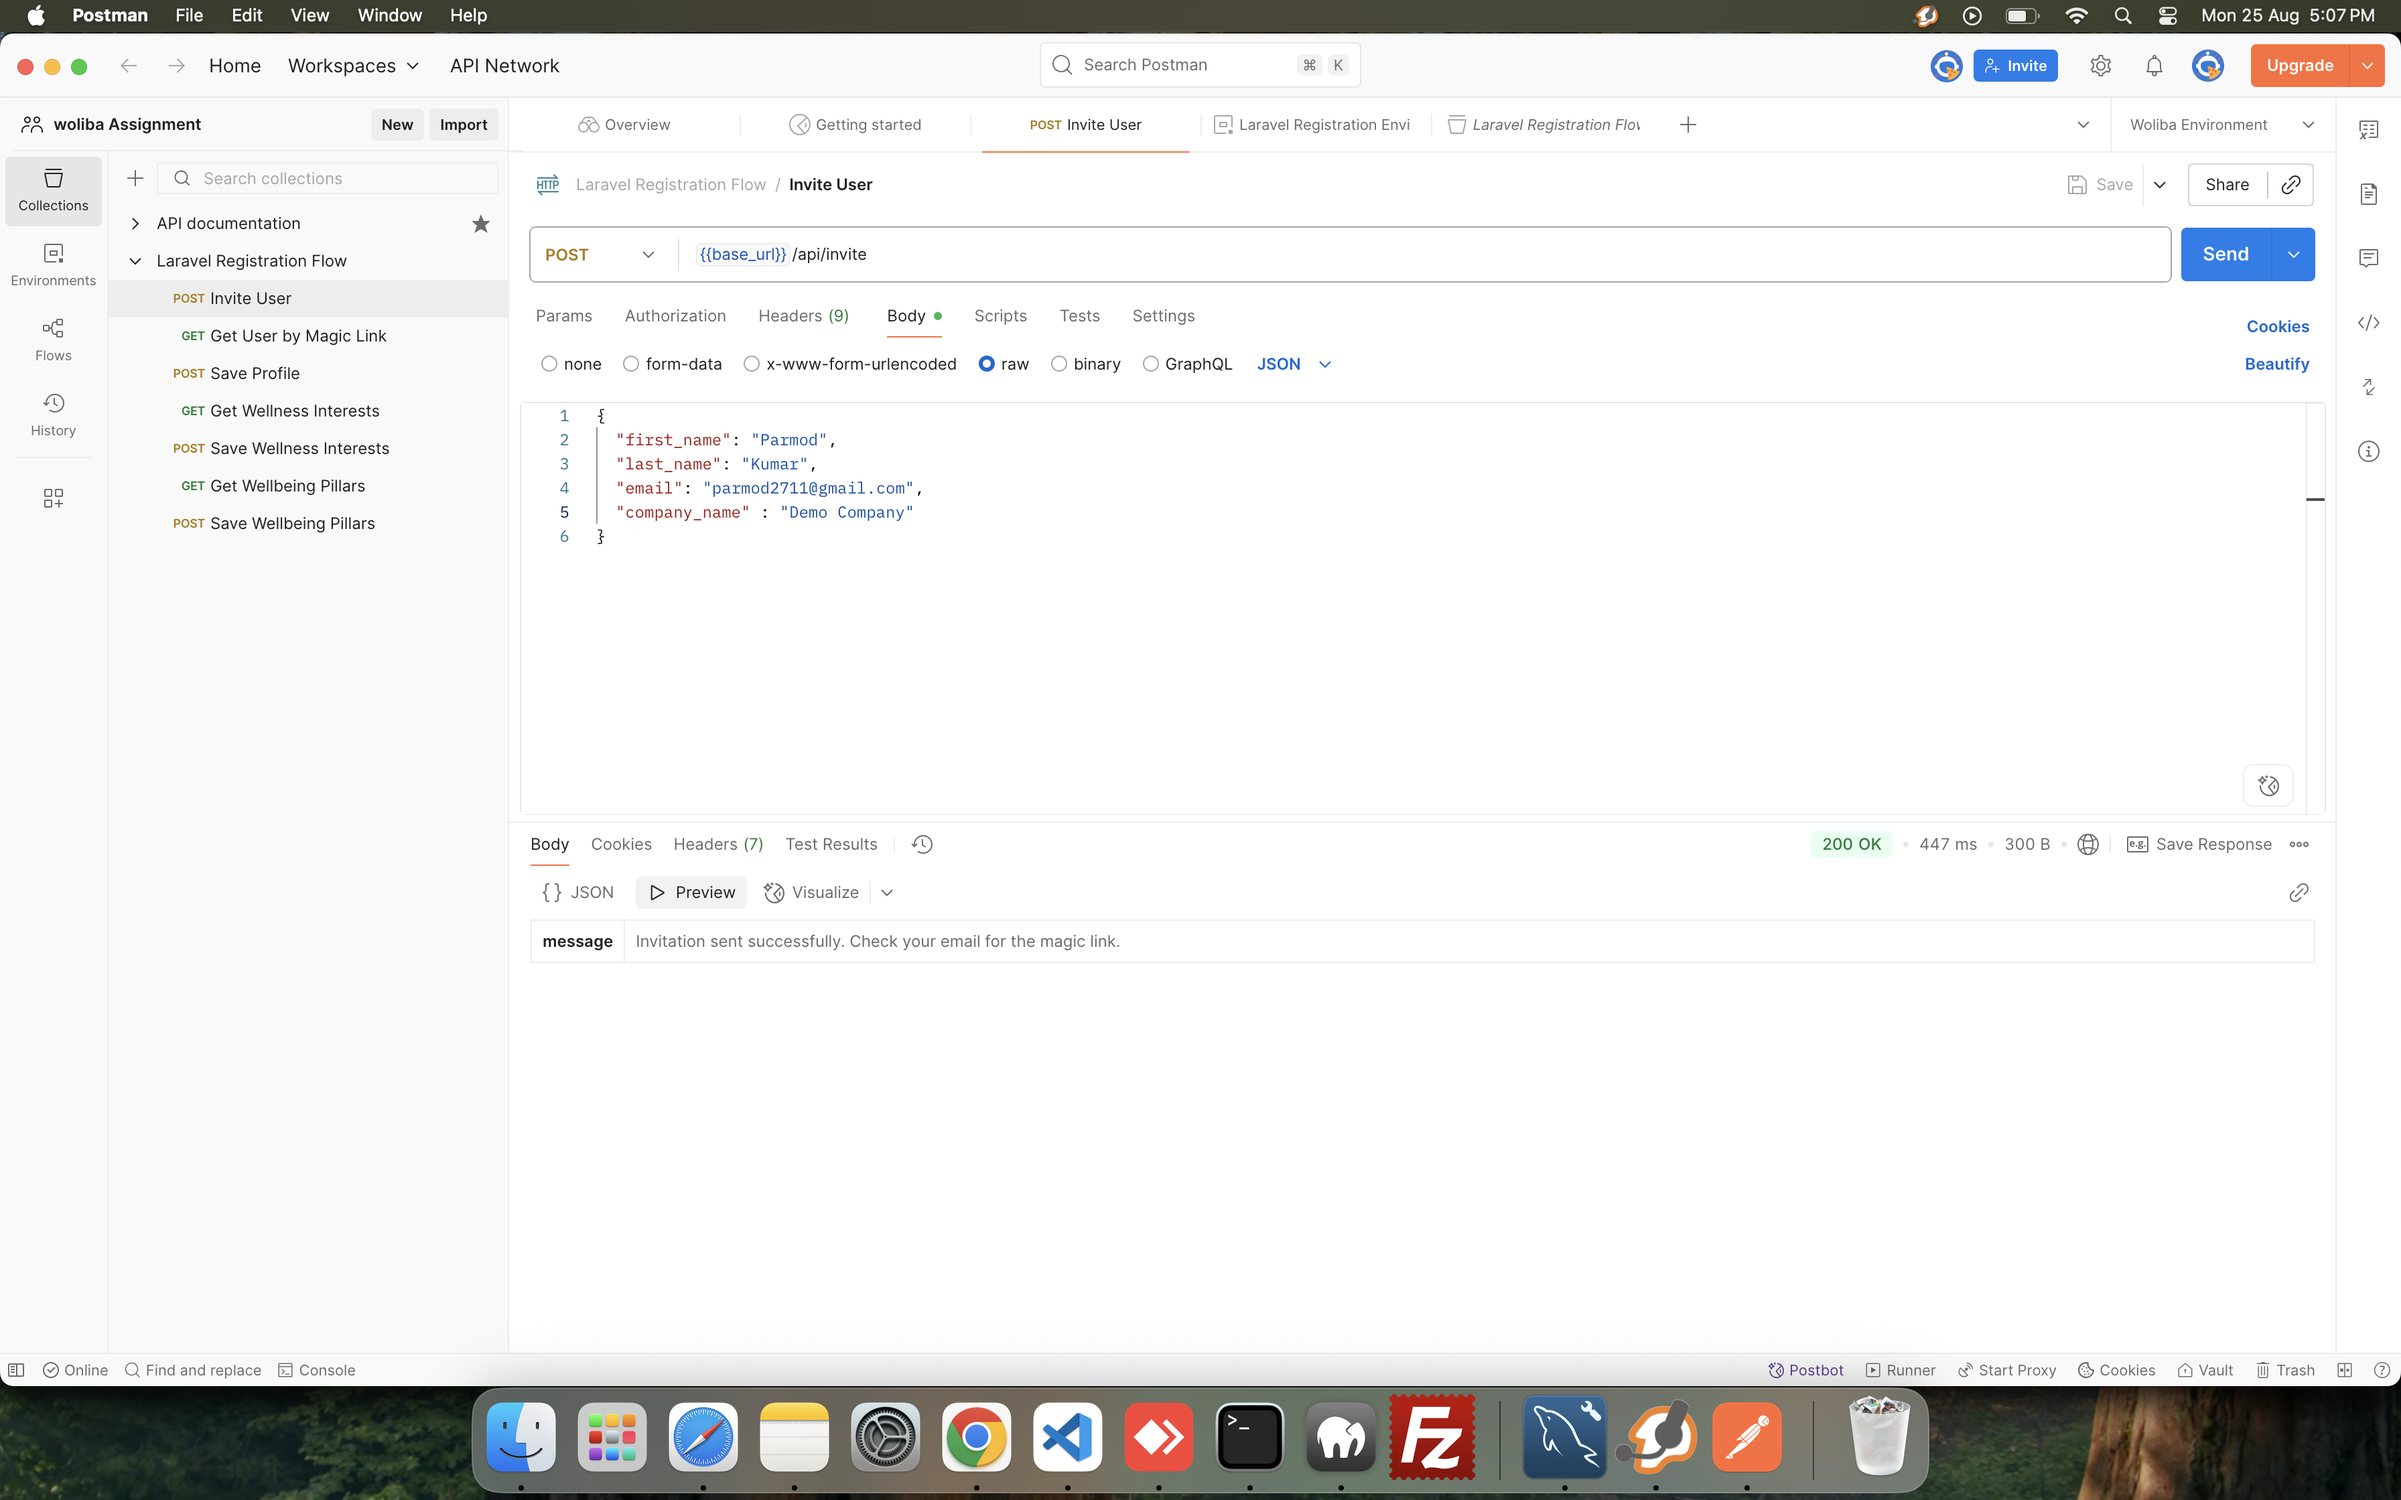
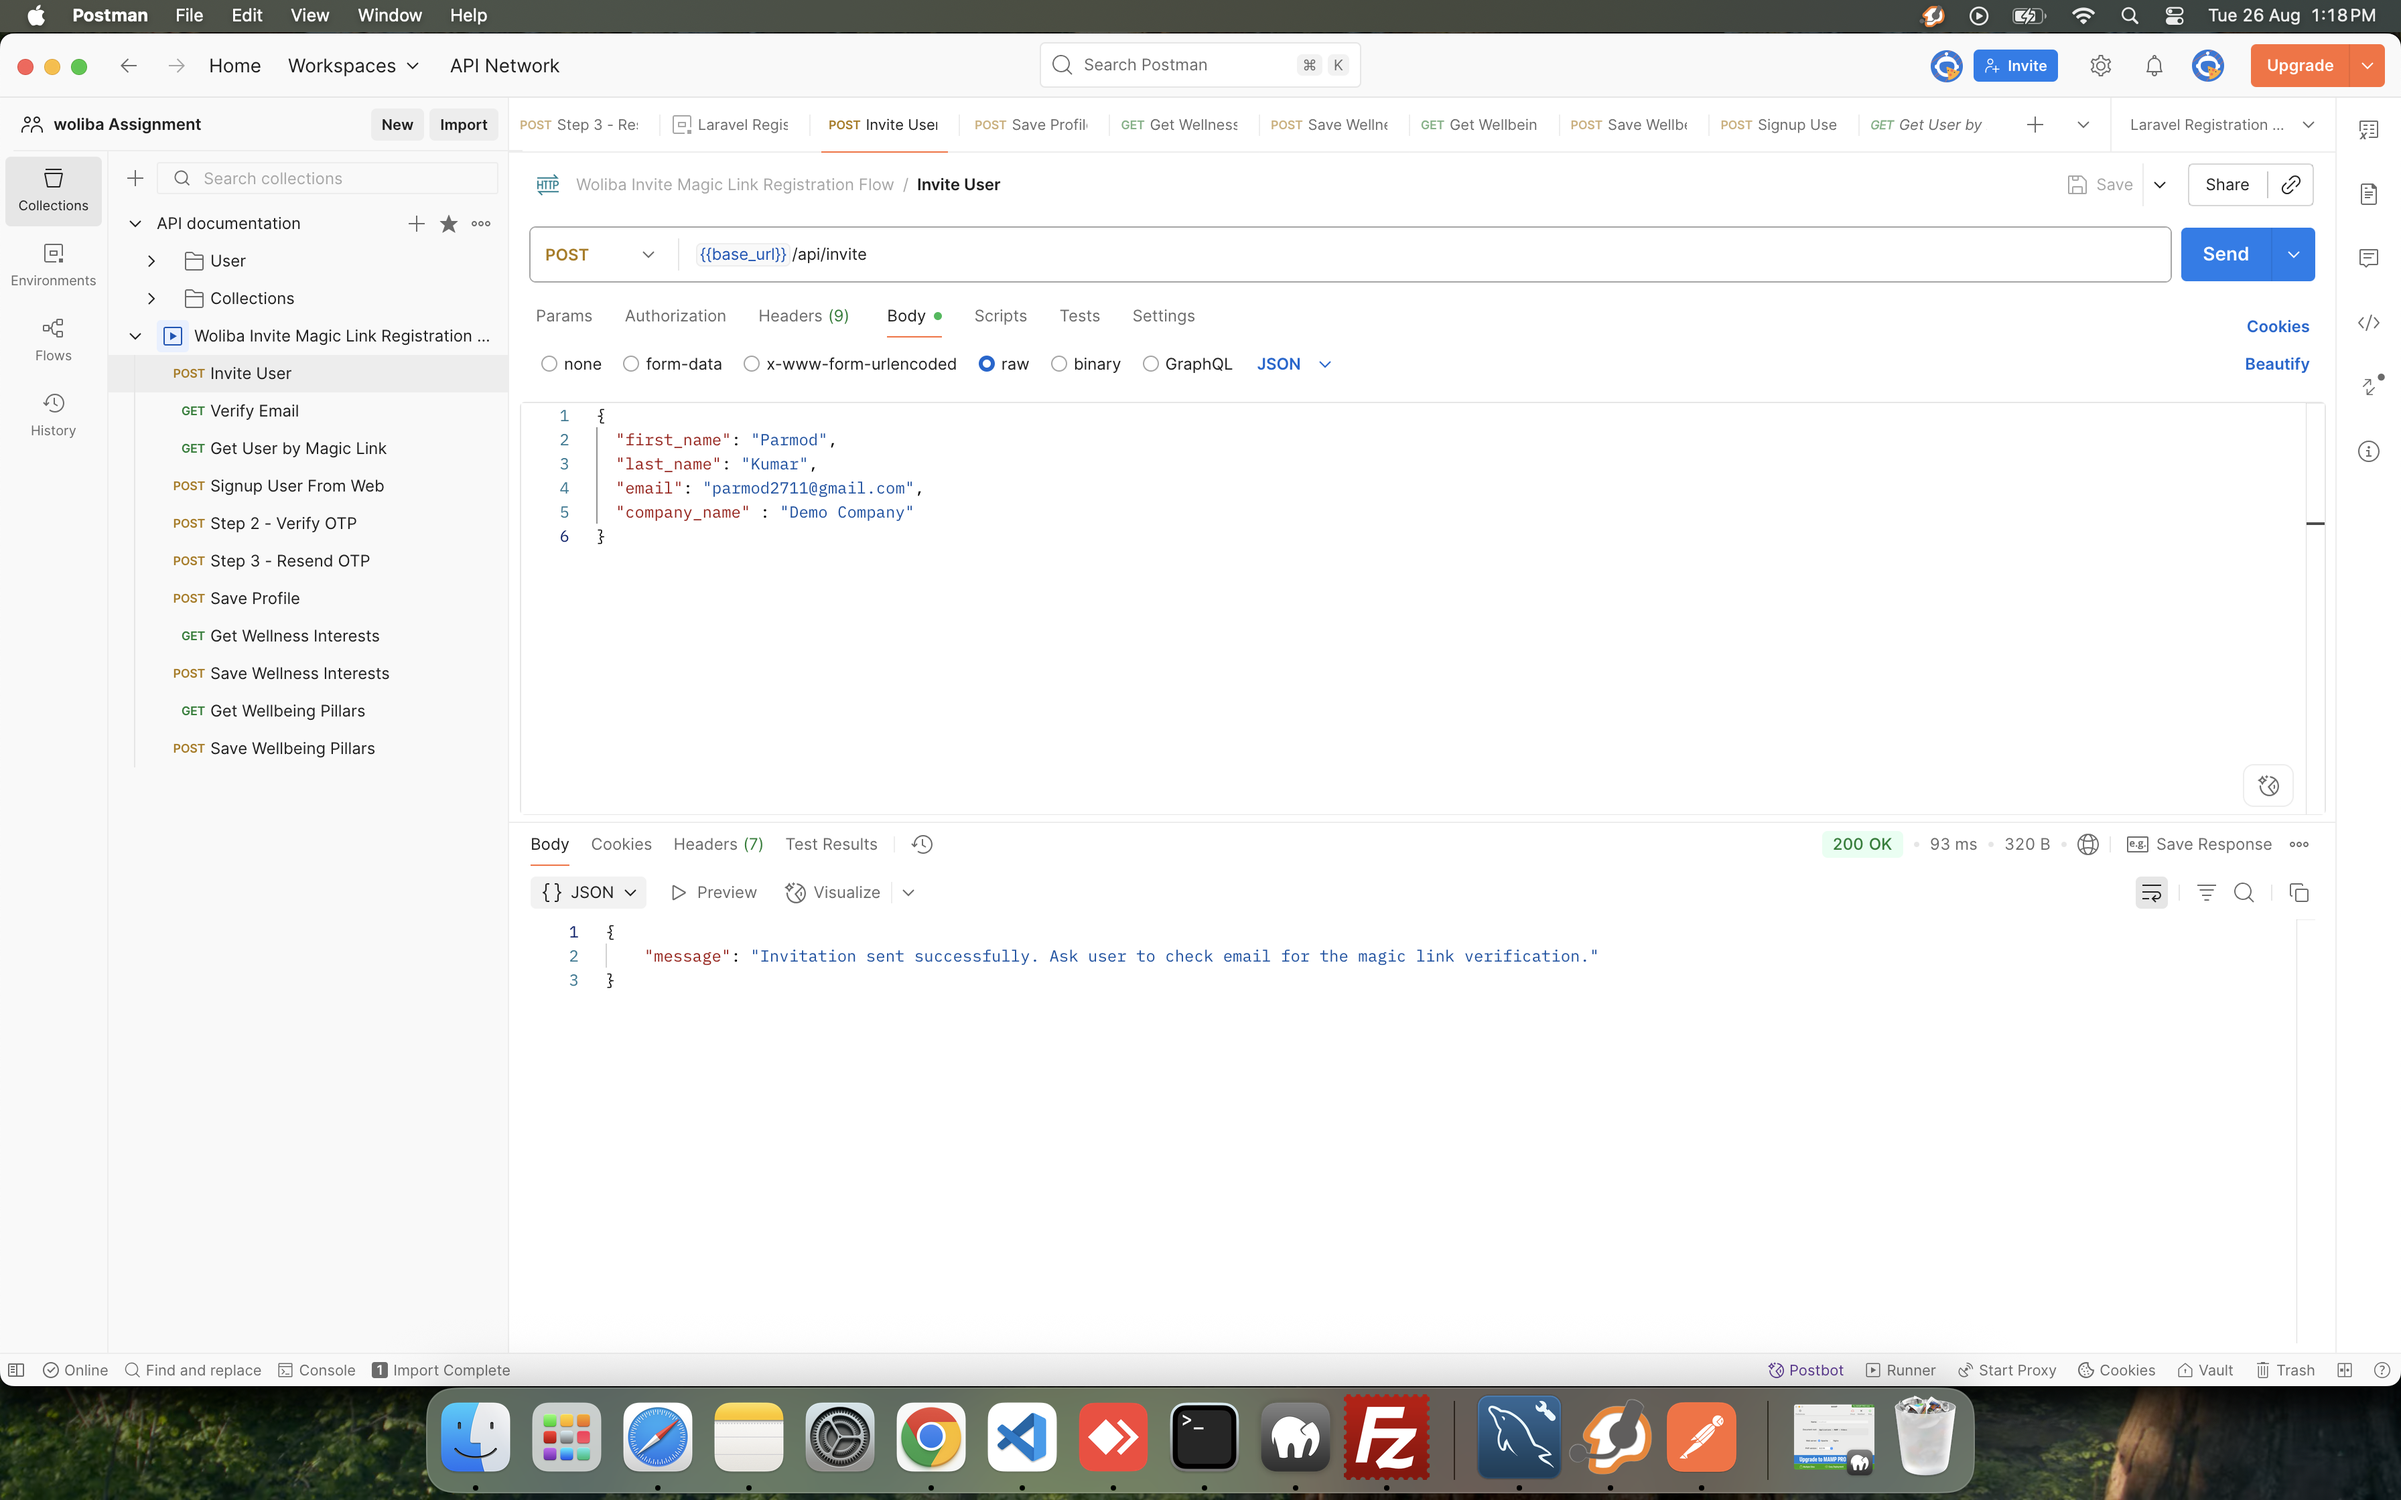
screenshot uploaded

diff --git a/app/Http/Controllers/RegistrationController.php b/app/Http/Controllers/RegistrationController.php
@@ -49,7 +49,7 @@ class RegistrationController extends Controller
         //\Log::channel('emaillog')->info("Magic link email sent to {$user->email}: {$magicLink}");
 
         return response()->json([
-            'message' => 'Invitation sent successfully. Check your email for the magic link.',
+            'message' => 'Invitation sent successfully. Ask user to check email for the magic link verification.',
         ]);
     }
 
